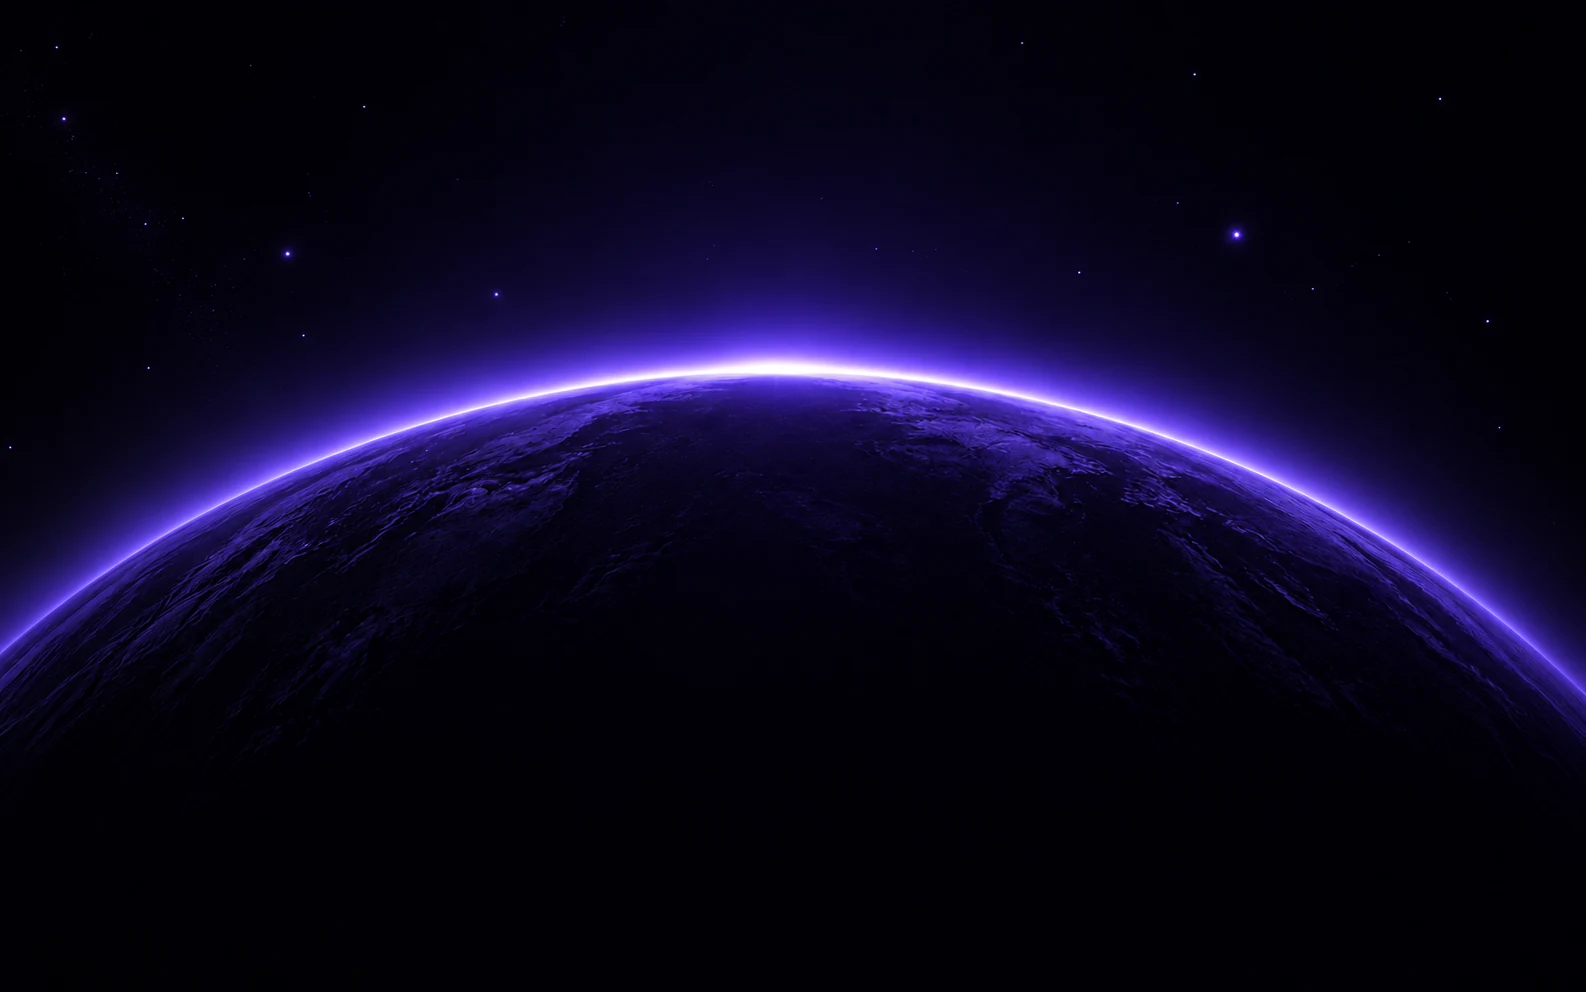
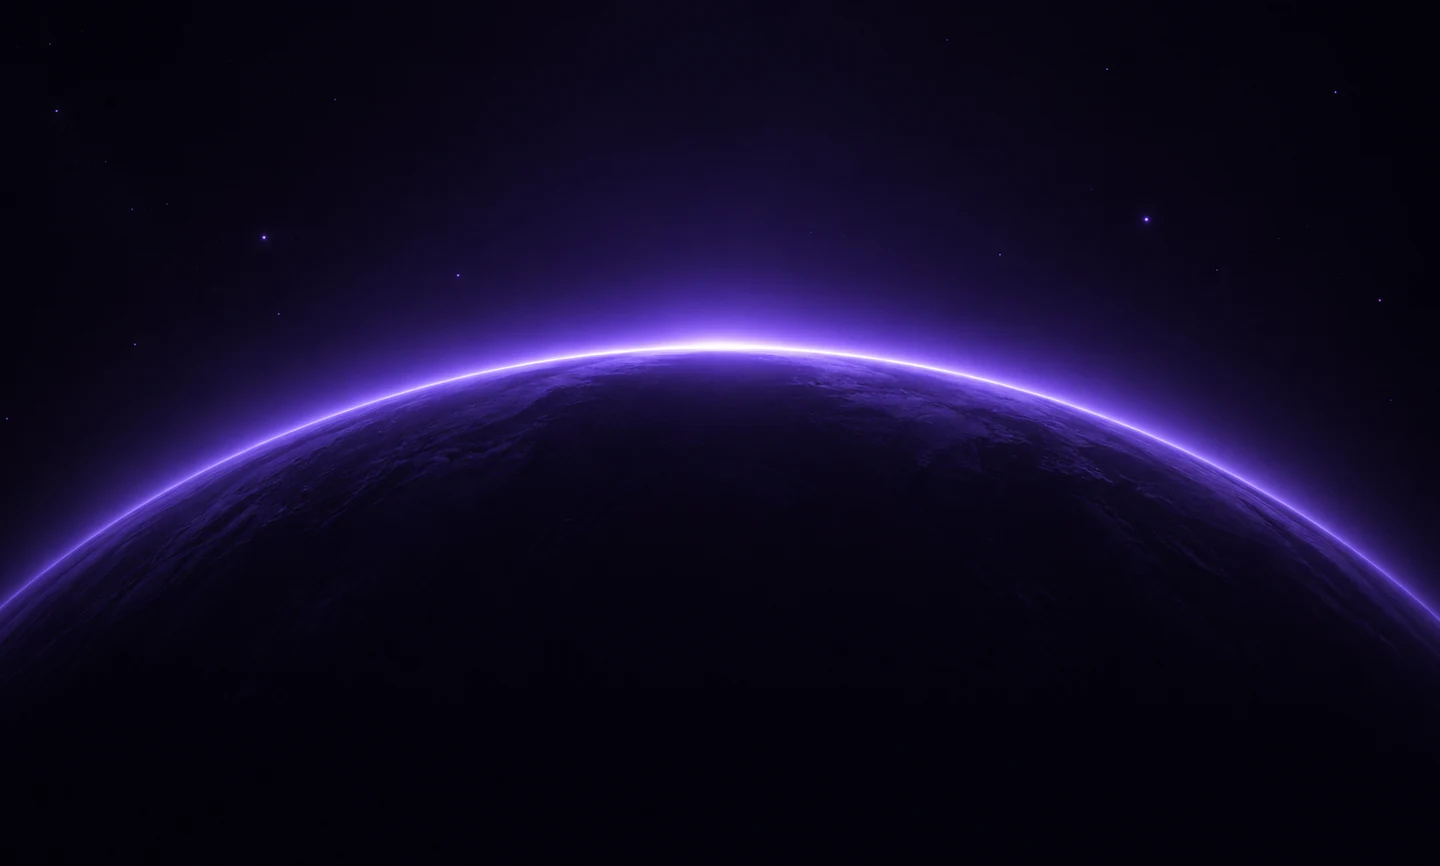
fix(recruitment): refresh hero artwork + tracking to match Figma node 1436:3506
- bake the node's 1672x941 IMAGE fill (imageTransform crop 86,0,1500,902)
  to 1440x866 via generate-backgrounds.mjs; old recruitment.png was a
  different image (bg MAE 8.4 -> 1.28)
- drop the .artwork::after dark overlay (not present in the node)
- remove wrong -0.176px letter-spacing on the copy (Figma 0; line was ~20px narrow)
- align heading gradient to global 181deg #fff 15% / #999 42% / #fff 79%
- full-section MAE 11.909 -> 1.600; geometry unchanged; 7 gates + seo PASS

Changed region(s): [[0.0, 0.2806, 1.0, 0.7483], [0.75, 0.2182, 0.7812, 0.2494], [0.1562, 0.2494, 0.1875, 0.2806]]

diff --git a/docs/assets.md b/docs/assets.md
@@ -1788,9 +1788,38 @@ generate-recruitment-hero-video.mjs` → `public/images/recruitment/`
   its original 49px so the homepage comparison is unchanged.
 - Verification: `scripts/verify.mjs` asserts the section, heading, description,
   and button boxes exactly, checks the active nav link, diffs the section
-  against the reference PNG (~2.0/255; the residual is font and glass
-  rasterization), and checks horizontal overflow and clipped hero text from
-  320px to 1920px.
+  against the reference PNG (MAE **1.60/255**; residual is font/glass
+  rasterization and the reference's embedded navbar band), and checks horizontal
+  overflow and clipped hero text from 320px to 1920px.
+
+- **Hero precision revision (3 Oct 2026).** Strict per-section audit of node
+  `1436:3506` found the static fallback was stale and repaired three issues:
+  - **Artwork.** The node now carries a **1672 × 941 IMAGE fill**
+    (`imageRef eb3f5f4e…`) cropped by its `imageTransform`
+    (`scaleX .8975 / tx .05126`, `scaleY .9590`) and stretched to 1440 × 866.
+    The raw fill is vendored as
+    `assets/assets recruitment page/hero section/recruitment-hero-fill-raw.png`
+    and baked (crop `86,0,1500,902` → resize 1440 × 866) by
+    `scripts/generate-backgrounds.mjs` → `public/images/backgrounds/recruitment.webp`.
+    The old `assets/background/hd/recruitment.png` (1586 × 992) was a different
+    image (background MAE 8.4 → **1.28** with the correct crop).
+  - **Overlay.** The `.artwork::after` dark gradient is **not in the node**
+    (the reference background is pixel-identical to the raw crop, e.g. at
+    x=200 the rows match 12/12, 45/45, 51/51). Removed — keeping it cost ~3 MAE.
+  - **Copy tracking.** The description had `letter-spacing: -0.176px`, but the
+    Figma style `Typography/Manrope - Body/B-1` has **no** letter-spacing; it
+    shrank the line ~20px (ink 862 vs 882). Removed → copy-region MAE
+    16.6 → 3.3.
+  - Heading fill aligned to the global Figma `181deg #fff 15% / #999 42% /
+#fff 79%` (was `180deg … 80%`; heading band 2.92 → 2.73).
+  - Net: full-section MAE **11.909 → 1.600** (below-nav 1.412); geometry
+    unchanged (`h1 270/278/900×176`, copy `270/470/900×27`, button
+    `660/545/120×43`). Note: the node's `Navbar` instance means the reference's
+    top 110px is the navbar while `verify.mjs` screenshots the section alone, so
+    that band reads ~2.9 regardless.
+  - The animated `recruitment-hero1.mp4` layer is a different scene (small
+    planet + starfield) and is unchanged; it only plays at
+    `(prefers-reduced-motion: no-preference) and (min-width: 601px)`.
 
 ## Recruitment page — Who Should Join
 

diff --git a/AGENTS.md b/AGENTS.md
@@ -353,10 +353,16 @@ exclude`), not `border` (the HoF Project shot sat at 929 vs the 933 frame and
 
 ## Current checkpoint
 
-- **HEAD (2 Oct 2026; `main` lokal).**
+- **HEAD (3 Oct 2026).**
   Situs pakai Astro **`<ClientRouter />`** (navigasi klien + `AudioContext`
   persist; semua komponen re-init `astro:page-load` + cleanup
   `astro:before-swap` — `docs/sound-sop.md` §9).
+- **AUDIT RECRUITMENT — Section 1 Hero (`1436:3506`) PASS (3 Oct 2026).**
+  Static fallback diperbaiki: art dari IMAGE fill baru (`recruitment-hero-fill-raw.png`,
+  crop `86,0,1500,902` → 1440×866 via `generate-backgrounds.mjs`), `.artwork::after`
+  overlay dihapus (tidak ada di node), copy `letter-spacing` dibuang (Figma 0),
+  heading gradient `181deg`. Full MAE **11.909 → 1.600**; geometri tetap; 7 gate ALL
+  PASS. Lanjut section 2–9 satu per satu.
 - **STATUS RINGKAS (3 Oct 2026).** **Homepage 100% selesai** (Hero → Our
   Philosophy → What We Do → Choose Your Domain/HoDS → Our Project → CTA, node
   `1430:2040`). **Recruitment Page 100% selesai** (node `1436:3505`). **About Us
@@ -650,9 +656,11 @@ exclude`), not `border` (the HoF Project shot sat at 929 vs the 933 frame and
   diregenerasi dari node `864:18959`. `verify.mjs` sekarang assert heading
   `font-family` Bluu Next + weight `700` per rute. Geometri tak berubah
   (`back 80/80`, `card 80/163/1280×279`, `tabs 80/498`, height 1280).
-- **Next plan (prioritas).** **NEXT: audit menyeluruh RECRUITMENT (`1436:3505`)
+- **Next plan (prioritas).** **SEDANG: audit menyeluruh RECRUITMENT (`1436:3505`)
   strict per-section** (presisi, GLOW/GLASS, responsive, 8pt, font; 9 section) —
-  kerjakan **satu section per pass**. **Homepage (`1430:2040`) & About Us
+  kerjakan **satu section per pass**. **Section 1 Hero `1436:3506` SELESAI
+  (3 Oct 2026, MAE 11.909 → 1.600); NEXT = Section 2 Who Should Join
+  `1436:3512`.** **Homepage (`1430:2040`) & About Us
   (`1439:4184`) sudah diaudit 3 Oct 2026** (About Us: tombol "See More" `OurTeam`
   = GLASS `1248:15694`, diperbaiki; **JANGAN sentuh `<Starfield />` visi-misi**).
   Lalu Partners (`1439:4787`) + 6 detail HoDS (`864:18857` dkk).

diff --git a/docs/ai-handoff.md b/docs/ai-handoff.md
@@ -31,6 +31,16 @@ tulis ulang**: section yang sudah presisi (geometri ±0, 8pt PASS, font/warna co
 cukup dilaporkan PASS; perbaiki HANYA region yang beda vs PNG node. Selalu
 regenerasi reference dari node terbaru dan cek pixel-identik vs node lain dulu.
 
+**Section 1 Hero (`1436:3506`) — AUDIT PASS (3 Oct 2026).** Tiga temuan & perbaikan:
+(1) static fallback salah gambar — node kini pakai IMAGE fill 1672×941 dengan crop
+`imageTransform` (raw di-vendor `recruitment-hero-fill-raw.png`; bake crop
+`86,0,1500,902` → 1440×866 di `generate-backgrounds.mjs`); (2) `.artwork::after`
+overlay gelap **tidak ada di node** → dihapus; (3) copy `letter-spacing: -0.176px`
+salah (Figma 0) → baris menyusut ~20px, dihapus. Heading gradient diselaraskan ke
+global `181deg #fff 15% / #999 42% / #fff 79%`. Full MAE **11.909 → 1.600**
+(below-nav 1.412), geometri tak berubah, 7 gate ALL PASS. Sisa section 2–9 (Who
+Should Join → Footer) masih menunggu audit — kerjakan satu per satu.
+
 **Homepage (`1430:2040`) & About Us (`1439:4184`) = sudah diaudit (3 Oct 2026).**
 About Us temuan: tombol "See More" `OurTeam` ternyata GLASS (`1248:15694`),
 diperbaiki (section MAE 2.828 → 2.770). JANGAN sentuh `<Starfield />` visi-misi.
